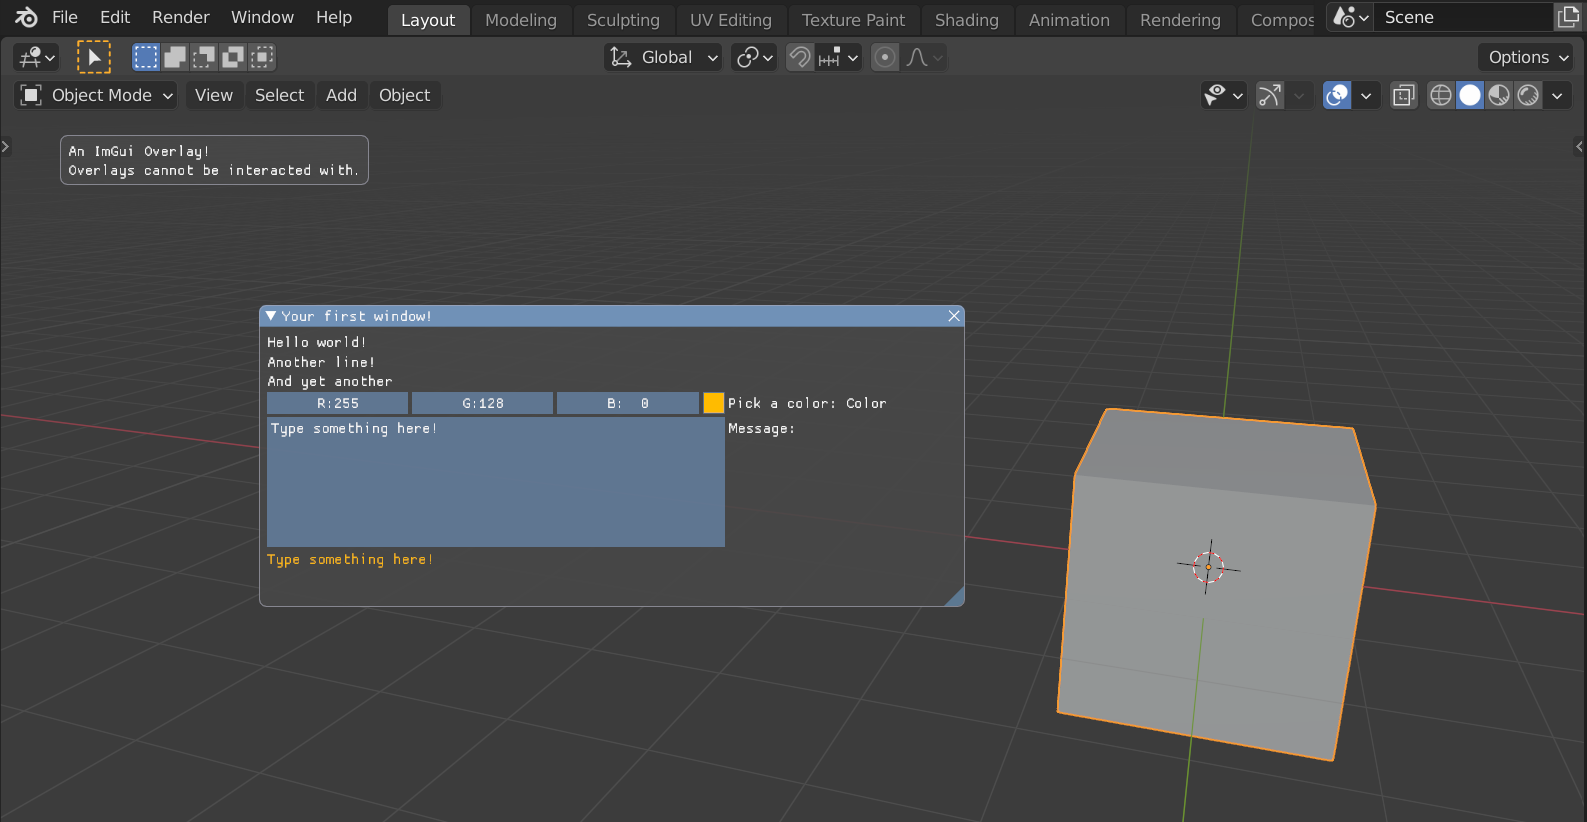
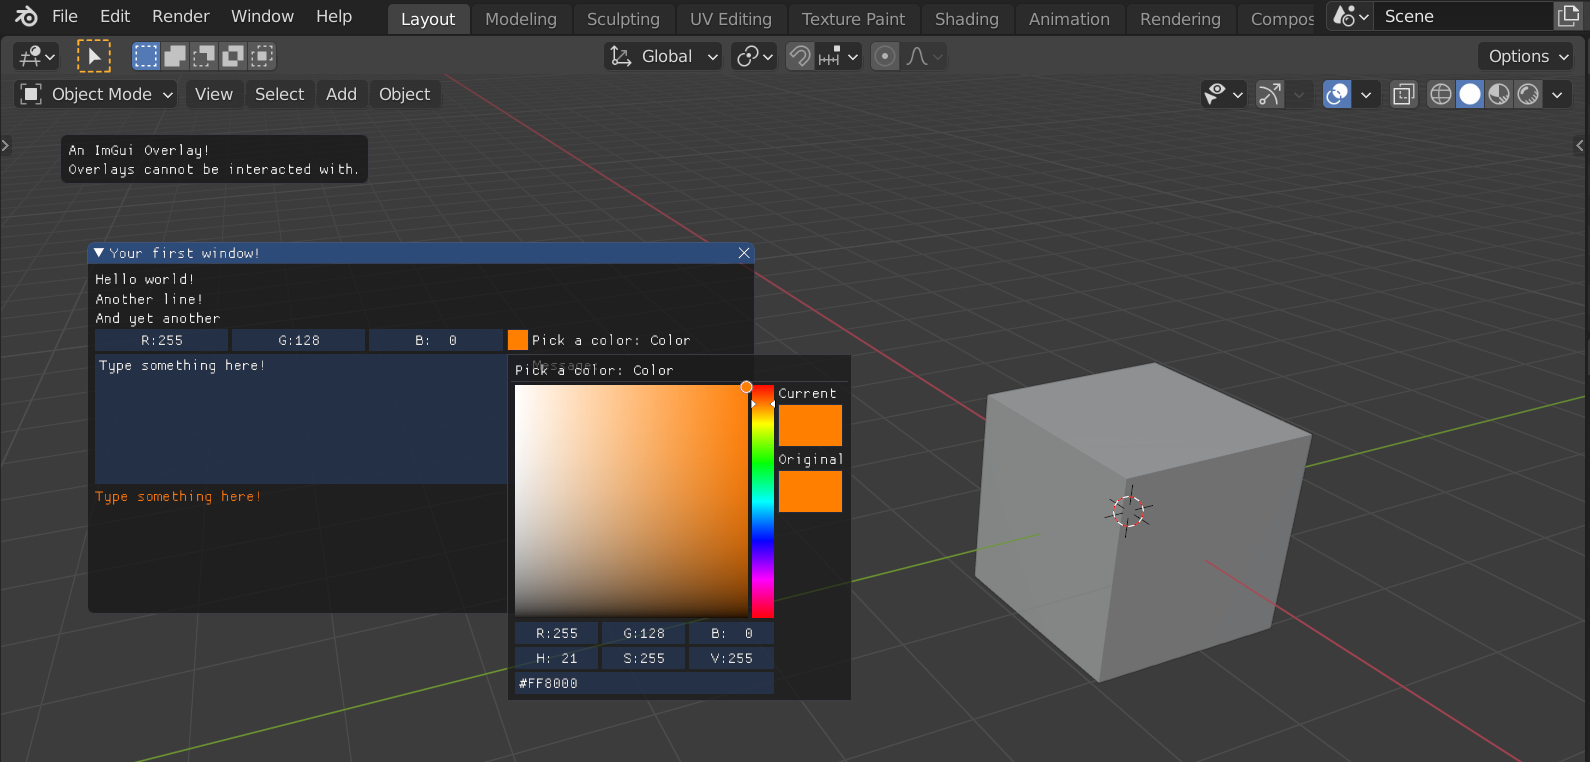
Fix colorspace

diff --git a/ImguiExample/blender_imgui.py b/ImguiExample/blender_imgui.py
@@ -58,8 +58,25 @@ class BlenderImguiRenderer(BaseOpenGLRenderer):
     in vec4 Frag_Color;
     out vec4 Out_Color;
 
+    vec4 linear_to_srgb(vec4 linear) {
+        return mix(
+            1.055 * pow(linear, vec4(1.0 / 2.4)) - 0.055,
+            12.92 * linear,
+            step(linear, vec4(0.00031308))
+        );
+    }
+
+    vec4 srgb_to_linear(vec4 srgb) {
+        return mix(
+            pow((srgb + 0.055) / 1.055, vec4(2.4)),
+            srgb / 12.92,
+            step(srgb, vec4(0.04045))
+        );
+    }
+
     void main() {
         Out_Color = Frag_Color * texture(Texture, Frag_UV.st);
+        Out_Color.rgba = srgb_to_linear(Out_Color.rgba);
     }
     """
 

diff --git a/blender_imgui.py b/blender_imgui.py
@@ -58,8 +58,25 @@ class BlenderImguiRenderer(BaseOpenGLRenderer):
     in vec4 Frag_Color;
     out vec4 Out_Color;
 
+    vec4 linear_to_srgb(vec4 linear) {
+        return mix(
+            1.055 * pow(linear, vec4(1.0 / 2.4)) - 0.055,
+            12.92 * linear,
+            step(linear, vec4(0.00031308))
+        );
+    }
+
+    vec4 srgb_to_linear(vec4 srgb) {
+        return mix(
+            pow((srgb + 0.055) / 1.055, vec4(2.4)),
+            srgb / 12.92,
+            step(srgb, vec4(0.04045))
+        );
+    }
+
     void main() {
         Out_Color = Frag_Color * texture(Texture, Frag_UV.st);
+        Out_Color.rgba = srgb_to_linear(Out_Color.rgba);
     }
     """
 
